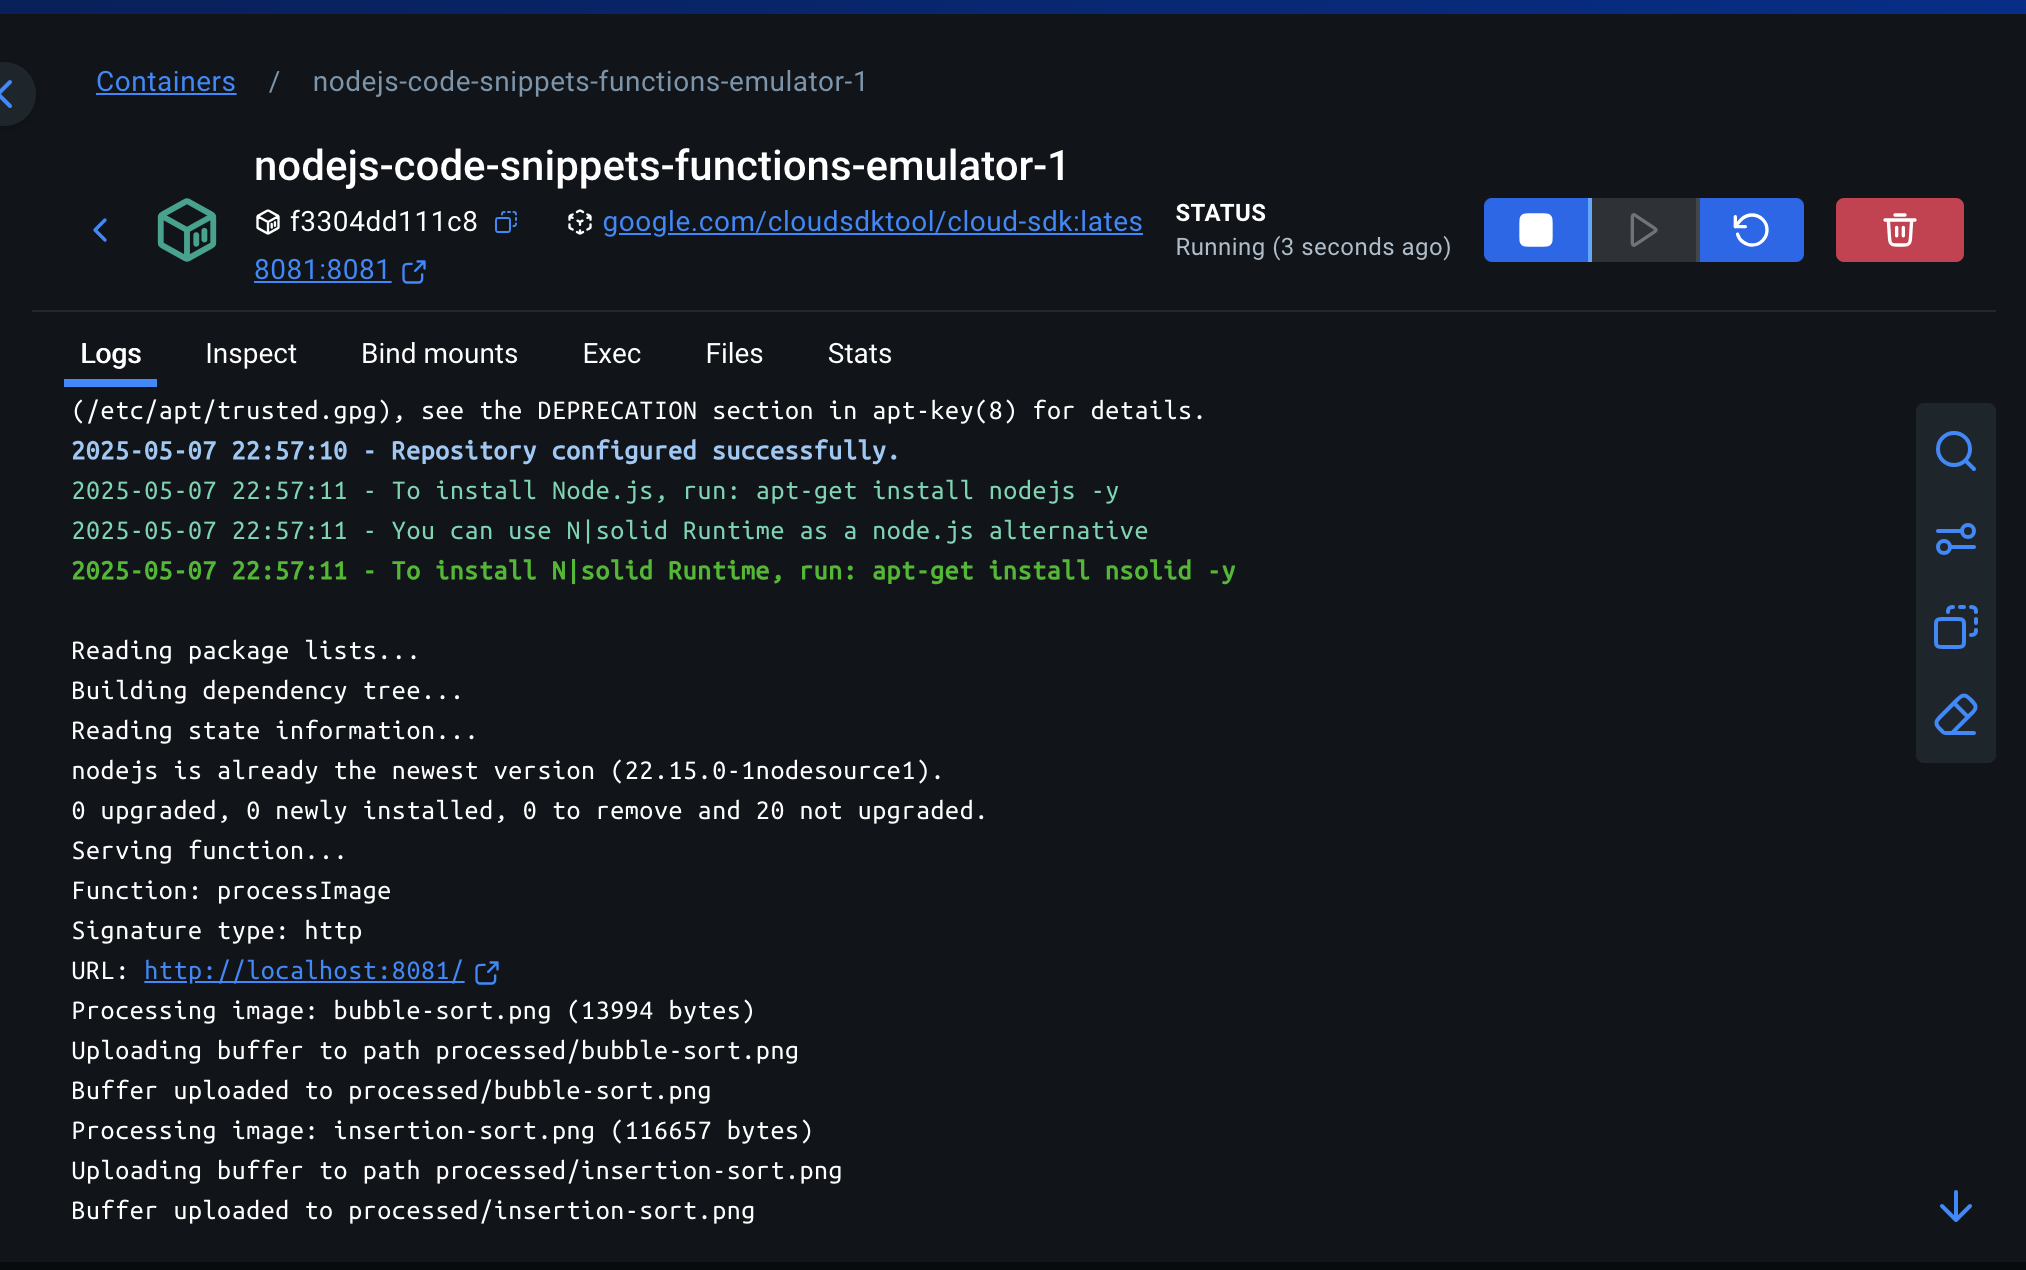
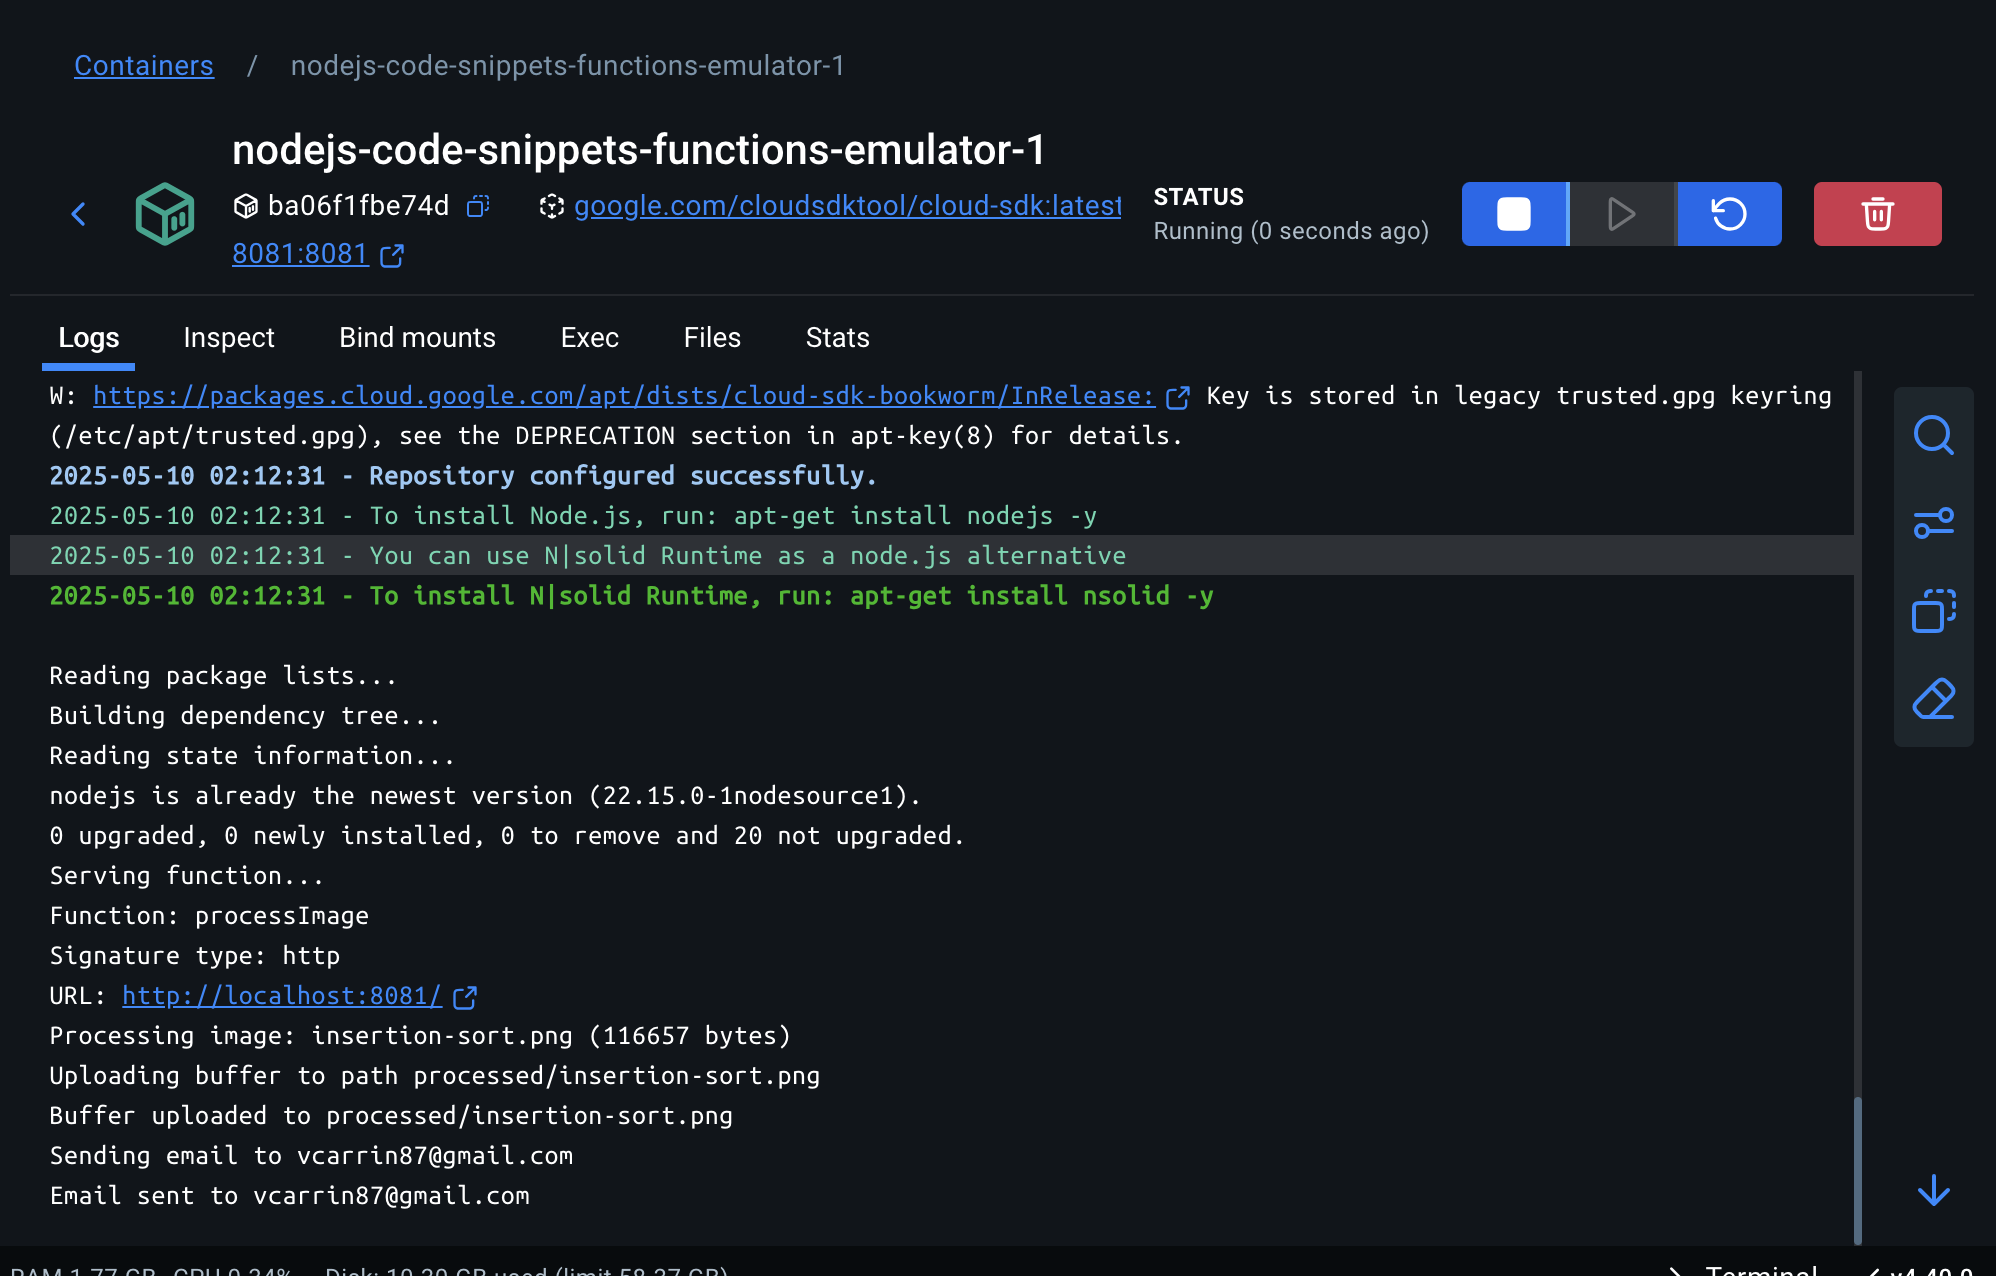
Added more details

diff --git a/google-cloud-provider/cloud-functions/process-image/index.js b/google-cloud-provider/cloud-functions/process-image/index.js
@@ -26,7 +26,10 @@ exports.processImage = async (req, res) => {
             console.log(`Sending email to ${user.email}`);
             const subject = 'Image Processing Completed';
             const message = `Dear ${user.full_name}, <br/> 
-                Your image ${fileName} has been processed successfully.`;
+                <p>Your image ${fileName} has been processed successfully.</p>
+                <p>You can download it from the following link: 
+                <a href="http://localhost:4443/download/storage/v1/b/media_assets/o/${processedFileName}?alt=media">Download Image</a></p>
+                <p>Best regards,</p>`;
             await sendEmailNotification(user.email, subject, message);
         }
 

diff --git a/README.md b/README.md
@@ -29,10 +29,15 @@ Replace `<bucket-name>` with the name of your storage bucket to access its conte
 **Request Body:**
 - `fileName` (required): File name to be uploaded.
 - `base64Image` (required): The base64-encoded string representation of the image.
+- `user` (required): The logged in user
 ```json
 {
     "fileName": "string",
-    "base64Image": "string"
+    "base64Image": "string",
+    "user": {
+        "full_name": "string",
+        "email": "string"
+    }
 }
 ```
 
@@ -160,3 +165,4 @@ Google Cloud Functions is a serverless compute service provided by Google Cloud 
     - this reduces the overload on the service and allows for function to scale up to meed the demand and scale down when the process completes
 
 ![cloud-function](process-image.png)
+![email](email.png)
